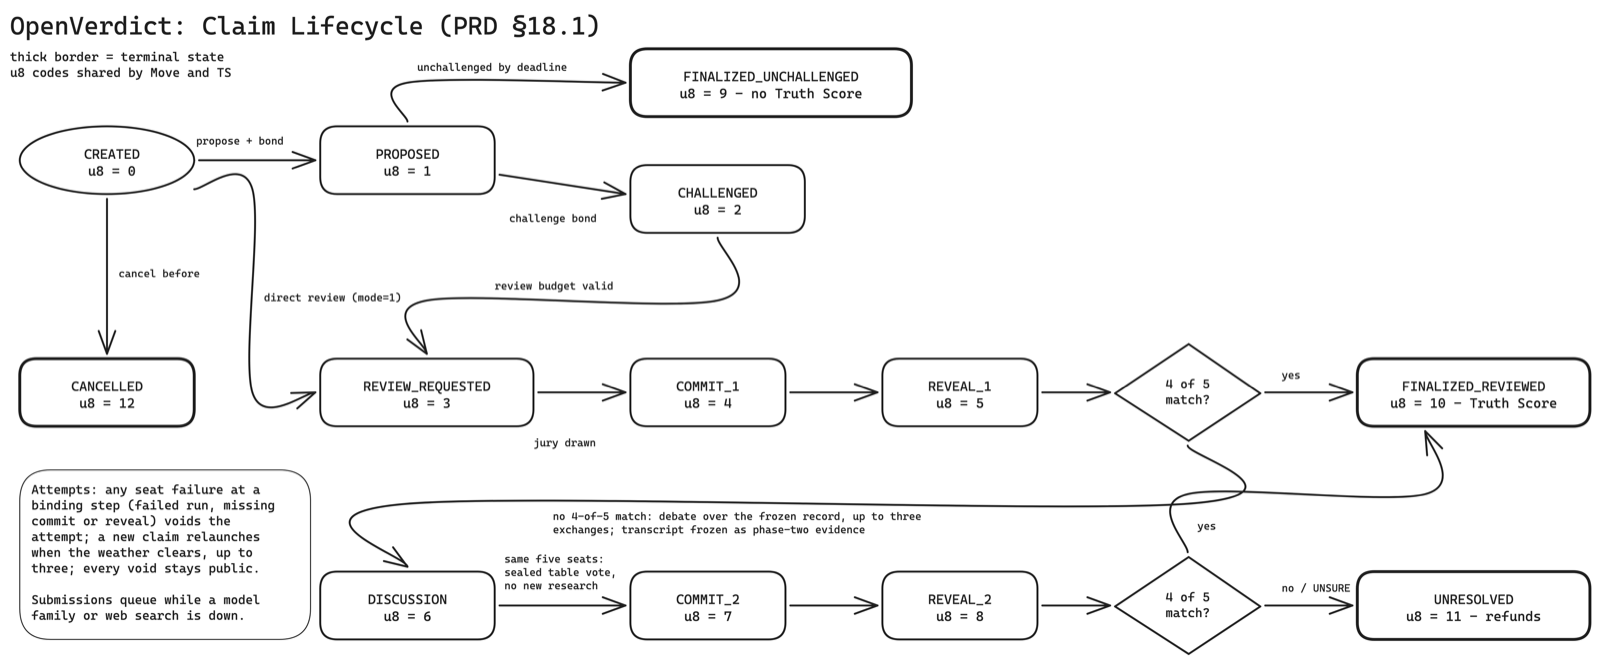
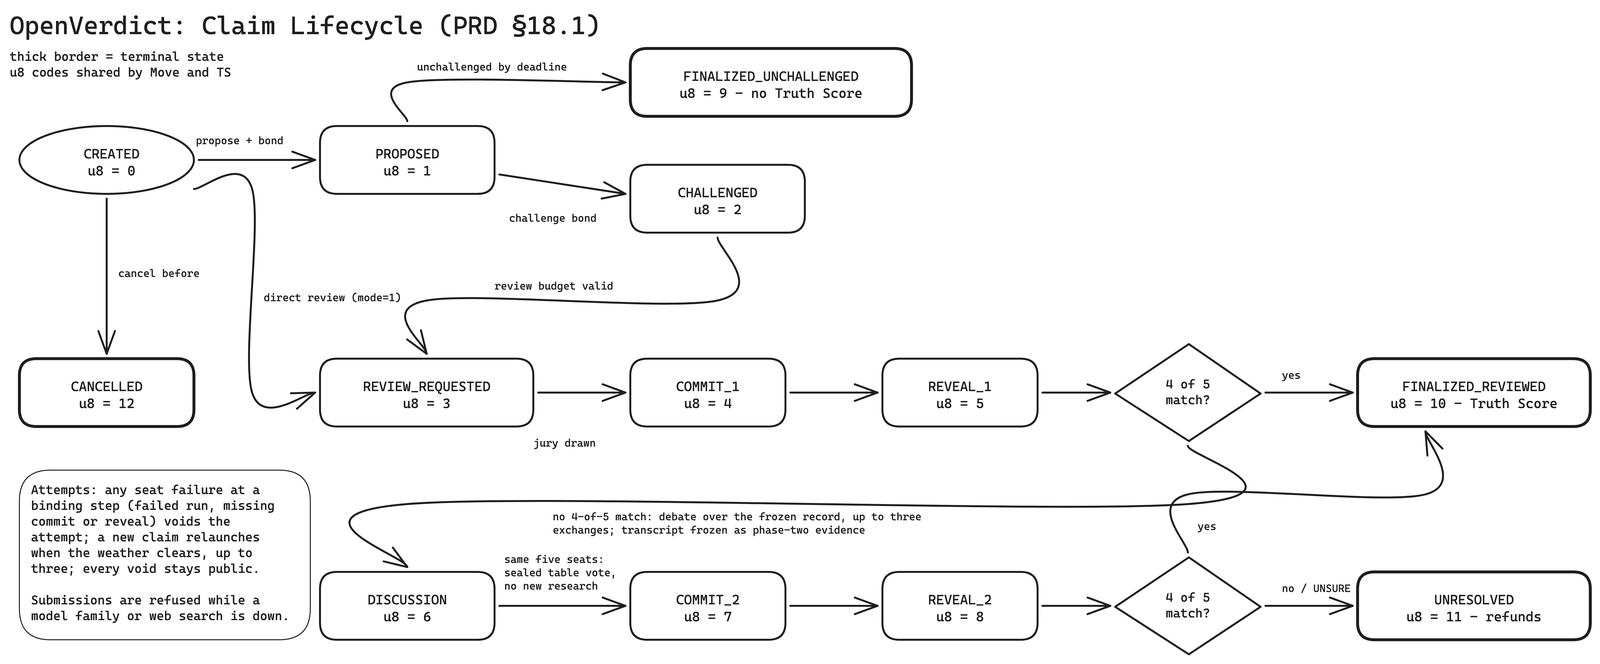
docs(site): serve the current diagrams on the docs host
public/diagrams now carries 1600 px renders of the current architecture, claim lifecycle and two-round jury diagrams, and the walkthrough's jury image describes both rounds.

diff --git a/docs/site/how-a-verdict-happens.md b/docs/site/how-a-verdict-happens.md
@@ -287,7 +287,7 @@ bites only when the discussion window runs out mid-debate.
 
 ## 3. The committee draw
 
-![One jury round: five seats, independent research, sealed ballots, then the tally.](/diagrams/jury-round.png)
+![Jury rounds: research and sealed ballots in round one, then public cross-examination and a sealed table vote in round two on a split.](/diagrams/jury-round.png)
 
 `jury::select_committee<T>` draws the jury. It takes `&Random`, Sui's on-chain
 randomness object, so the Move compiler requires it to be a private `entry fun`
